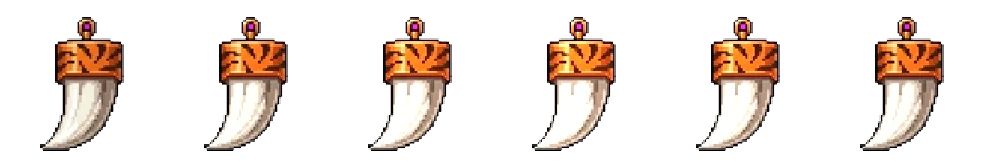
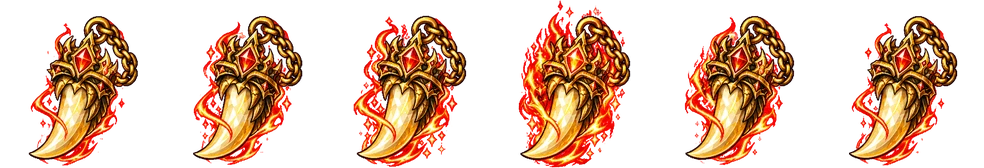
b170 (held): real animated art for the four SuperLegend amulets
Claude-Session: https://claude.ai/code/session_01QmQpWu4DjinCPskbkXfnjC

diff --git a/tools/amcut.py b/tools/amcut.py
@@ -1,0 +1,50 @@
+# b170 SuperLegend amulets: tools/am_in/<id>.png (one row of 6 frames on flat magenta or green) -> am/<id>_a.webp (6 frames of 164x168, the size .amu.amx expects) + am/<id>.webp (frame 1, 112 high)
+import sys,numpy as np
+from PIL import Image
+from scipy import ndimage as nd
+from scipy.signal import fftconvolve
+P='/home/claude/pixeldeck/';D=P+'tools/am_in/';FW,FH=164,168
+def key(im):
+    a=np.asarray(im.convert('RGB')).astype(float);bg=np.median(np.concatenate([a[:8].reshape(-1,3),a[-8:].reshape(-1,3)]),0);r,g,b=a[...,0],a[...,1],a[...,2]
+    green=bg[1]>bg[0]
+    m=(g-np.maximum(r,b)) if green else (np.minimum(r,b)-g);mb=(bg[1]-max(bg[0],bg[2])) if green else (min(bg[0],bg[2])-bg[1])
+    al=np.clip((mb-22-m)/(mb-22-70),0,1);k=np.clip(al,.08,1)[...,None];f=np.clip((a-(1-al[...,None])*bg)/k,0,255);al[al<.06]=0
+    R,G,B=f[...,0],f[...,1],f[...,2]
+    if green:f[...,1]=np.minimum(G,np.maximum(R,B)+8)           # leftover green fringe goes neutral
+    else:
+        mm=np.minimum(R,B)-G;z=(mm>10)&(al<.98);f[...,2]=np.where(z,np.minimum(B,G*.6+R*.25),B)   # soft pink edges turn warm; solid art keeps its colour
+        z2=(np.minimum(R,B)-G>22)&(R>B);f[...,2]=np.where(z2,np.minimum(f[...,2],G*.85),f[...,2])   # a glow painted pink over the magenta (R above B) becomes warm gold; blue and violet art (B above R) is untouched
+    return np.dstack([f,al*255]).astype('uint8')
+def cut(k):
+    rgba=key(Image.open(D+k+'.png'));al=rgba[...,3];H,W=al.shape;p=nd.uniform_filter1d((al>40).sum(0).astype(float),5);cuts=[0]
+    for i in range(1,6):
+        c=round(i*W/6);lo,hi=c-90,c+90;seg=p[lo:hi];cand=np.where(seg<=seg.min()+1)[0]+lo;cuts.append(int(cand[np.argmin(abs(cand-c))]))
+    cuts.append(W);fr=[]
+    for i in range(6):
+        c=rgba[:,cuts[i]:cuts[i+1]].copy();m=c[...,3]>40;lab,n=nd.label(m,structure=np.ones((3,3)));sz=nd.sum(m,lab,range(1,n+1));big=sz.max()
+        for j in range(1,n+1):
+            xs=np.where(lab==j)[1]
+            if sz[j-1]<big*.015 and (xs.min()<3 or xs.max()>c.shape[1]-4):c[lab==j]=0   # a neighbour's spike or spark poking over the cut
+        fr.append(c)
+    # every frame on one canvas, lined up on frame 1 by matching the solid artwork (the aura moves, the amulet does not)
+    CW=max(f.shape[1] for f in fr)+160;CH=H;can=[]
+    def put(f,dx=0,dy=0):
+        o=np.zeros((CH,CW,4),'uint8');x=(CW-f.shape[1])//2+dx;src=f[max(0,-dy):CH-max(0,dy)];o[max(0,dy):max(0,dy)+src.shape[0],x:x+f.shape[1]]=src;return o
+    def feat(o):
+        g=o[...,:3].astype(float).mean(2)*(o[...,3]>200);g=nd.zoom(g,.25,order=1);return g-g.mean()
+    base=put(fr[0]);fb=feat(base);can.append(base)
+    for f in fr[1:]:
+        o=put(f);c=fftconvolve(feat(o),fb[::-1,::-1],mode='same');y,x=np.unravel_index(np.argmax(c),c.shape);dy=(y-c.shape[0]//2)*4;dx=(x-c.shape[1]//2)*4
+        best=(-1e18,0,0);ob=(base[...,:3].astype(float).mean(2)*(base[...,3]>200))
+        for ey in range(-5,6):
+            for ex in range(-5,6):
+                t=put(f,-dx+ex,-dy+ey);s=-(np.abs(t[...,:3].astype(float).mean(2)*(t[...,3]>200)-ob)).sum()
+                if s>best[0]:best=(s,-dx+ex,-dy+ey)
+        can.append(put(f,best[1],best[2]));print(k,'shift',best[1:])
+    A=np.max([c[...,3] for c in can],0)>40;ys,xs=np.where(A);x0,x1,y0,y1=xs.min()-2,xs.max()+3,ys.min()-2,ys.max()+3
+    s=min(FW/(x1-x0),FH/(y1-y0));w,h=round((x1-x0)*s),round((y1-y0)*s);strip=Image.new('RGBA',(FW*6,FH),(0,0,0,0))
+    for i,c in enumerate(can):
+        im=Image.fromarray(c[y0:y1,x0:x1],'RGBA').resize((w,h),Image.LANCZOS);strip.paste(im,(i*FW+(FW-w)//2,(FH-h)//2))
+    strip.save(P+'am/'+k+'_a.webp',quality=92,method=6);strip.crop((0,0,FW,FH)).resize((round(FW*112/FH),112),Image.LANCZOS).save(P+'am/'+k+'.webp',quality=92,method=6)
+    bgc=Image.new('RGBA',strip.size,(26,12,8,255));bgc.alpha_composite(strip);bgc.save('/tmp/claude-0/-home-claude/388a5c6f-68e0-528b-b3e1-4ec8a2a8c150/scratchpad/sh170/am_'+k+'.png');print(k,'box',x1-x0,y1-y0,'scale',round(s,3))
+for k in (sys.argv[1:] or ['kfang','dscale','deye','seraph']):cut(k)
